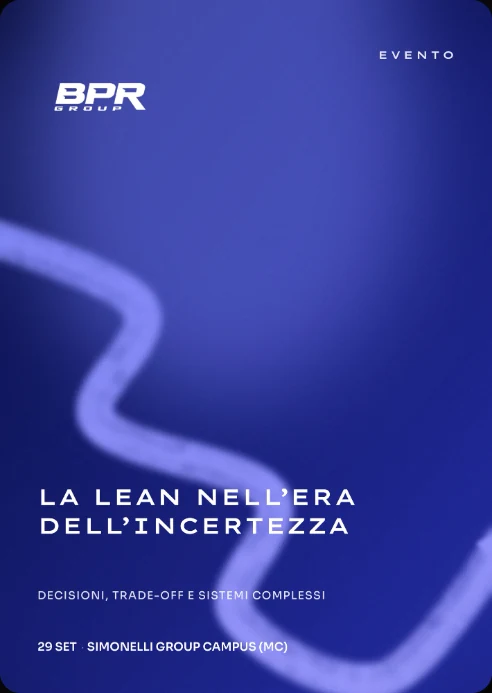
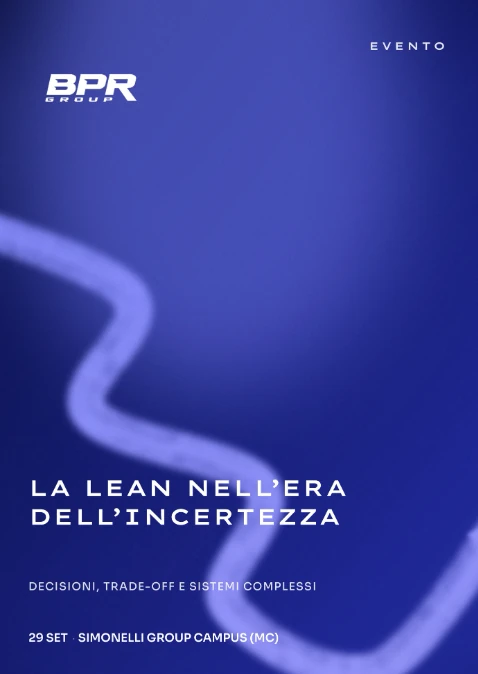
Sfondo desktop con linea ricostruita, niente locandina su tavoli tra i round
- Nuova immagine di sfondo larga per la Dashboard: la locandina resta
  nitida al centro, ma lo sfondo attorno è ricostruito riprendendo gli
  stessi colori del brand (derivati proprio da questa locandina) e
  continuando la linea chiara con una curva disegnata su misura,
  fusa senza cuciture visibili (nessun pixel duplicato/specchiato,
  quindi niente testo o loghi ripetuti alla rovescia)
- Vista Tavolo: rimossa la locandina quando si aspetta il round
  successivo (round chiuso, in attesa che la regia lo riapra) —
  restano solo i box "I tuoi KPI" e "Storico decisioni"; la locandina
  resta invece prima dell'inizio del gioco e a fine partita
- Corretta la numerazione: il testo "In attesa del Round N" ora usa
  sempre il prossimo round da giocare, anche nell'istante tra la
  chiusura di un round e l'avanzamento al successivo (nuovo campo
  sessione.round_concluso, aggiornato da apriRound/chiudiRound/
  avanzaRound/resetPartita)
- "In attesa dell'inizio del gioco" sostituisce il testo "Lean
  Trade-off Game" nella schermata pre-Round 1

diff --git a/src/pages/Dashboard.jsx b/src/pages/Dashboard.jsx
@@ -90,9 +90,10 @@ function Dashboard() {
     (s) => statoInvioTavolo(s) === 'inviato'
   ).length
 
-  const nessunaSceltaAncora = !scelteTutte.some((s) => s.opzione)
-  const partitaConclusa = round === 4 && !aperto && scelteTutte.some((s) => s.round === 4 && s.opzione)
-  const mostraIntro = !mostraRisultati && !aperto && nessunaSceltaAncora && round === 1
+  const roundConcluso = sessione.round_concluso ?? false
+  const partitaConclusa = round === 4 && roundConcluso
+  const mostraIntro = round === 1 && !aperto && !roundConcluso
+  const prossimoRound = roundConcluso ? round + 1 : round
 
   const colonne = tavoli.length <= 4 ? 2 : 3
   const righe = Math.ceil(tavoli.length / colonne) || 1
@@ -136,10 +137,7 @@ function Dashboard() {
         </>
       ) : mostraIntro ? (
         <div className="dashboard-live dashboard-live--poster">
-          <ScenaLocandina
-            titolo="Lean Trade-off Game"
-            sottotitolo="In attesa che la regia apra il Round 1..."
-          />
+          <ScenaLocandina variante="largo" titolo="In attesa dell'inizio del gioco" />
         </div>
       ) : aperto ? (
         <div className="dashboard-live">
@@ -167,13 +165,18 @@ function Dashboard() {
       ) : partitaConclusa ? (
         <div className="dashboard-live dashboard-live--poster">
           <ScenaLocandina
+            variante="largo"
             titolo="Fine del gioco"
             sottotitolo='Attiva "Mostra risultati" da Regia per il debrief finale.'
           />
         </div>
       ) : (
         <div className="dashboard-live dashboard-live--poster">
-          <ScenaLocandina titolo={`In attesa del Round ${round}`} sottotitolo={ROUND_NOMI[round]} />
+          <ScenaLocandina
+            variante="largo"
+            titolo={`In attesa del Round ${prossimoRound}`}
+            sottotitolo={ROUND_NOMI[prossimoRound]}
+          />
         </div>
       )}
     </div>

diff --git a/src/pages/Tavolo.jsx b/src/pages/Tavolo.jsx
@@ -180,9 +180,9 @@ function Tavolo() {
         ? 'Aggiorna scelta'
         : 'Invia scelta'
 
-  const nessunaSceltaAncora = !scelteTavolo.some((s) => s.opzione)
-  const partitaConclusa = round === 4 && roundChiuso && scelteTavolo.some((s) => s.round === 4 && s.opzione)
-  const mostraIntro = roundChiuso && round === 1 && nessunaSceltaAncora
+  const roundConcluso = sessione.round_concluso ?? false
+  const partitaConclusa = round === 4 && roundConcluso
+  const mostraIntro = round === 1 && roundChiuso && !roundConcluso
 
   if (mostraIntro) {
     return (
@@ -192,10 +192,7 @@ function Tavolo() {
           <h1>{tavolo.nome}</h1>
           {errore && <p className="status-error">❌ {errore}</p>}
           <div className="card poster-scena-card">
-            <ScenaLocandina
-              titolo="Lean Trade-off Game"
-              sottotitolo="In attesa che la regia apra il Round 1..."
-            />
+            <ScenaLocandina titolo="In attesa dell'inizio del gioco" />
           </div>
         </div>
       </div>
@@ -217,11 +214,7 @@ function Tavolo() {
               sottotitolo="Questi sono i tuoi KPI finali e il percorso fatto."
             />
           </div>
-        ) : roundChiuso ? (
-          <div className="card poster-scena-card">
-            <ScenaLocandina titolo={`In attesa del Round ${round}`} sottotitolo={ROUND_NOMI[round]} />
-          </div>
-        ) : (
+        ) : roundChiuso ? null : (
           <div className="card">
             <div
               style={{

diff --git a/src/components/ScenaLocandina.jsx b/src/components/ScenaLocandina.jsx
@@ -1,6 +1,23 @@
 const LOCANDINA_URL = '/locandina-evento.webp'
+const LOCANDINA_LARGA_URL = '/locandina-evento-largo.webp'
 
-function ScenaLocandina({ titolo, sottotitolo }) {
+function ScenaLocandina({ titolo, sottotitolo, variante = 'stretta' }) {
+  if (variante === 'largo') {
+    return (
+      <div
+        className="poster-scena poster-scena--largo"
+        style={{ backgroundImage: `url(${LOCANDINA_LARGA_URL})` }}
+      >
+        <div className="poster-scena__testo">
+          <div className="poster-scena__riquadro">
+            <h2 className="poster-scena__titolo">{titolo}</h2>
+            {sottotitolo && <p className="poster-scena__sottotitolo">{sottotitolo}</p>}
+          </div>
+        </div>
+      </div>
+    )
+  }
+
   return (
     <div className="poster-scena">
       <div className="poster-scena__sfondo" style={{ backgroundImage: `url(${LOCANDINA_URL})` }} />

diff --git a/src/pages/Regia.jsx b/src/pages/Regia.jsx
@@ -72,6 +72,7 @@ function Regia() {
       await updateDoc(doc(db, 'sessione', 'corrente'), {
         stato: 'aperto',
         timer_avvio: serverTimestamp(),
+        round_concluso: false,
       })
     } catch (err) {
       setErrore(err.message)
@@ -82,7 +83,7 @@ function Regia() {
   async function chiudiRound() {
     setAzioneInCorso(true)
     try {
-      await updateDoc(doc(db, 'sessione', 'corrente'), { stato: 'chiuso' })
+      await updateDoc(doc(db, 'sessione', 'corrente'), { stato: 'chiuso', round_concluso: true })
     } catch (err) {
       setErrore(err.message)
     }
@@ -123,6 +124,7 @@ function Regia() {
       await updateDoc(doc(db, 'sessione', 'corrente'), {
         round_attivo: sessione.round_attivo + 1,
         stato: 'chiuso',
+        round_concluso: false,
       })
     } catch (err) {
       setErrore(err.message)

diff --git a/src/index.css b/src/index.css
@@ -152,6 +152,12 @@ code {
   box-shadow: var(--shadow);
 }
 
+.poster-scena--largo {
+  background-size: cover;
+  background-position: center;
+  background-repeat: no-repeat;
+}
+
 .poster-scena__testo {
   position: absolute;
   z-index: 2;

diff --git a/src/lib/resetPartita.js b/src/lib/resetPartita.js
@@ -11,5 +11,6 @@ export async function eseguiResetPartita() {
     round_attivo: 1,
     stato: 'chiuso',
     timer_avvio: null,
+    round_concluso: false,
   })
 }
